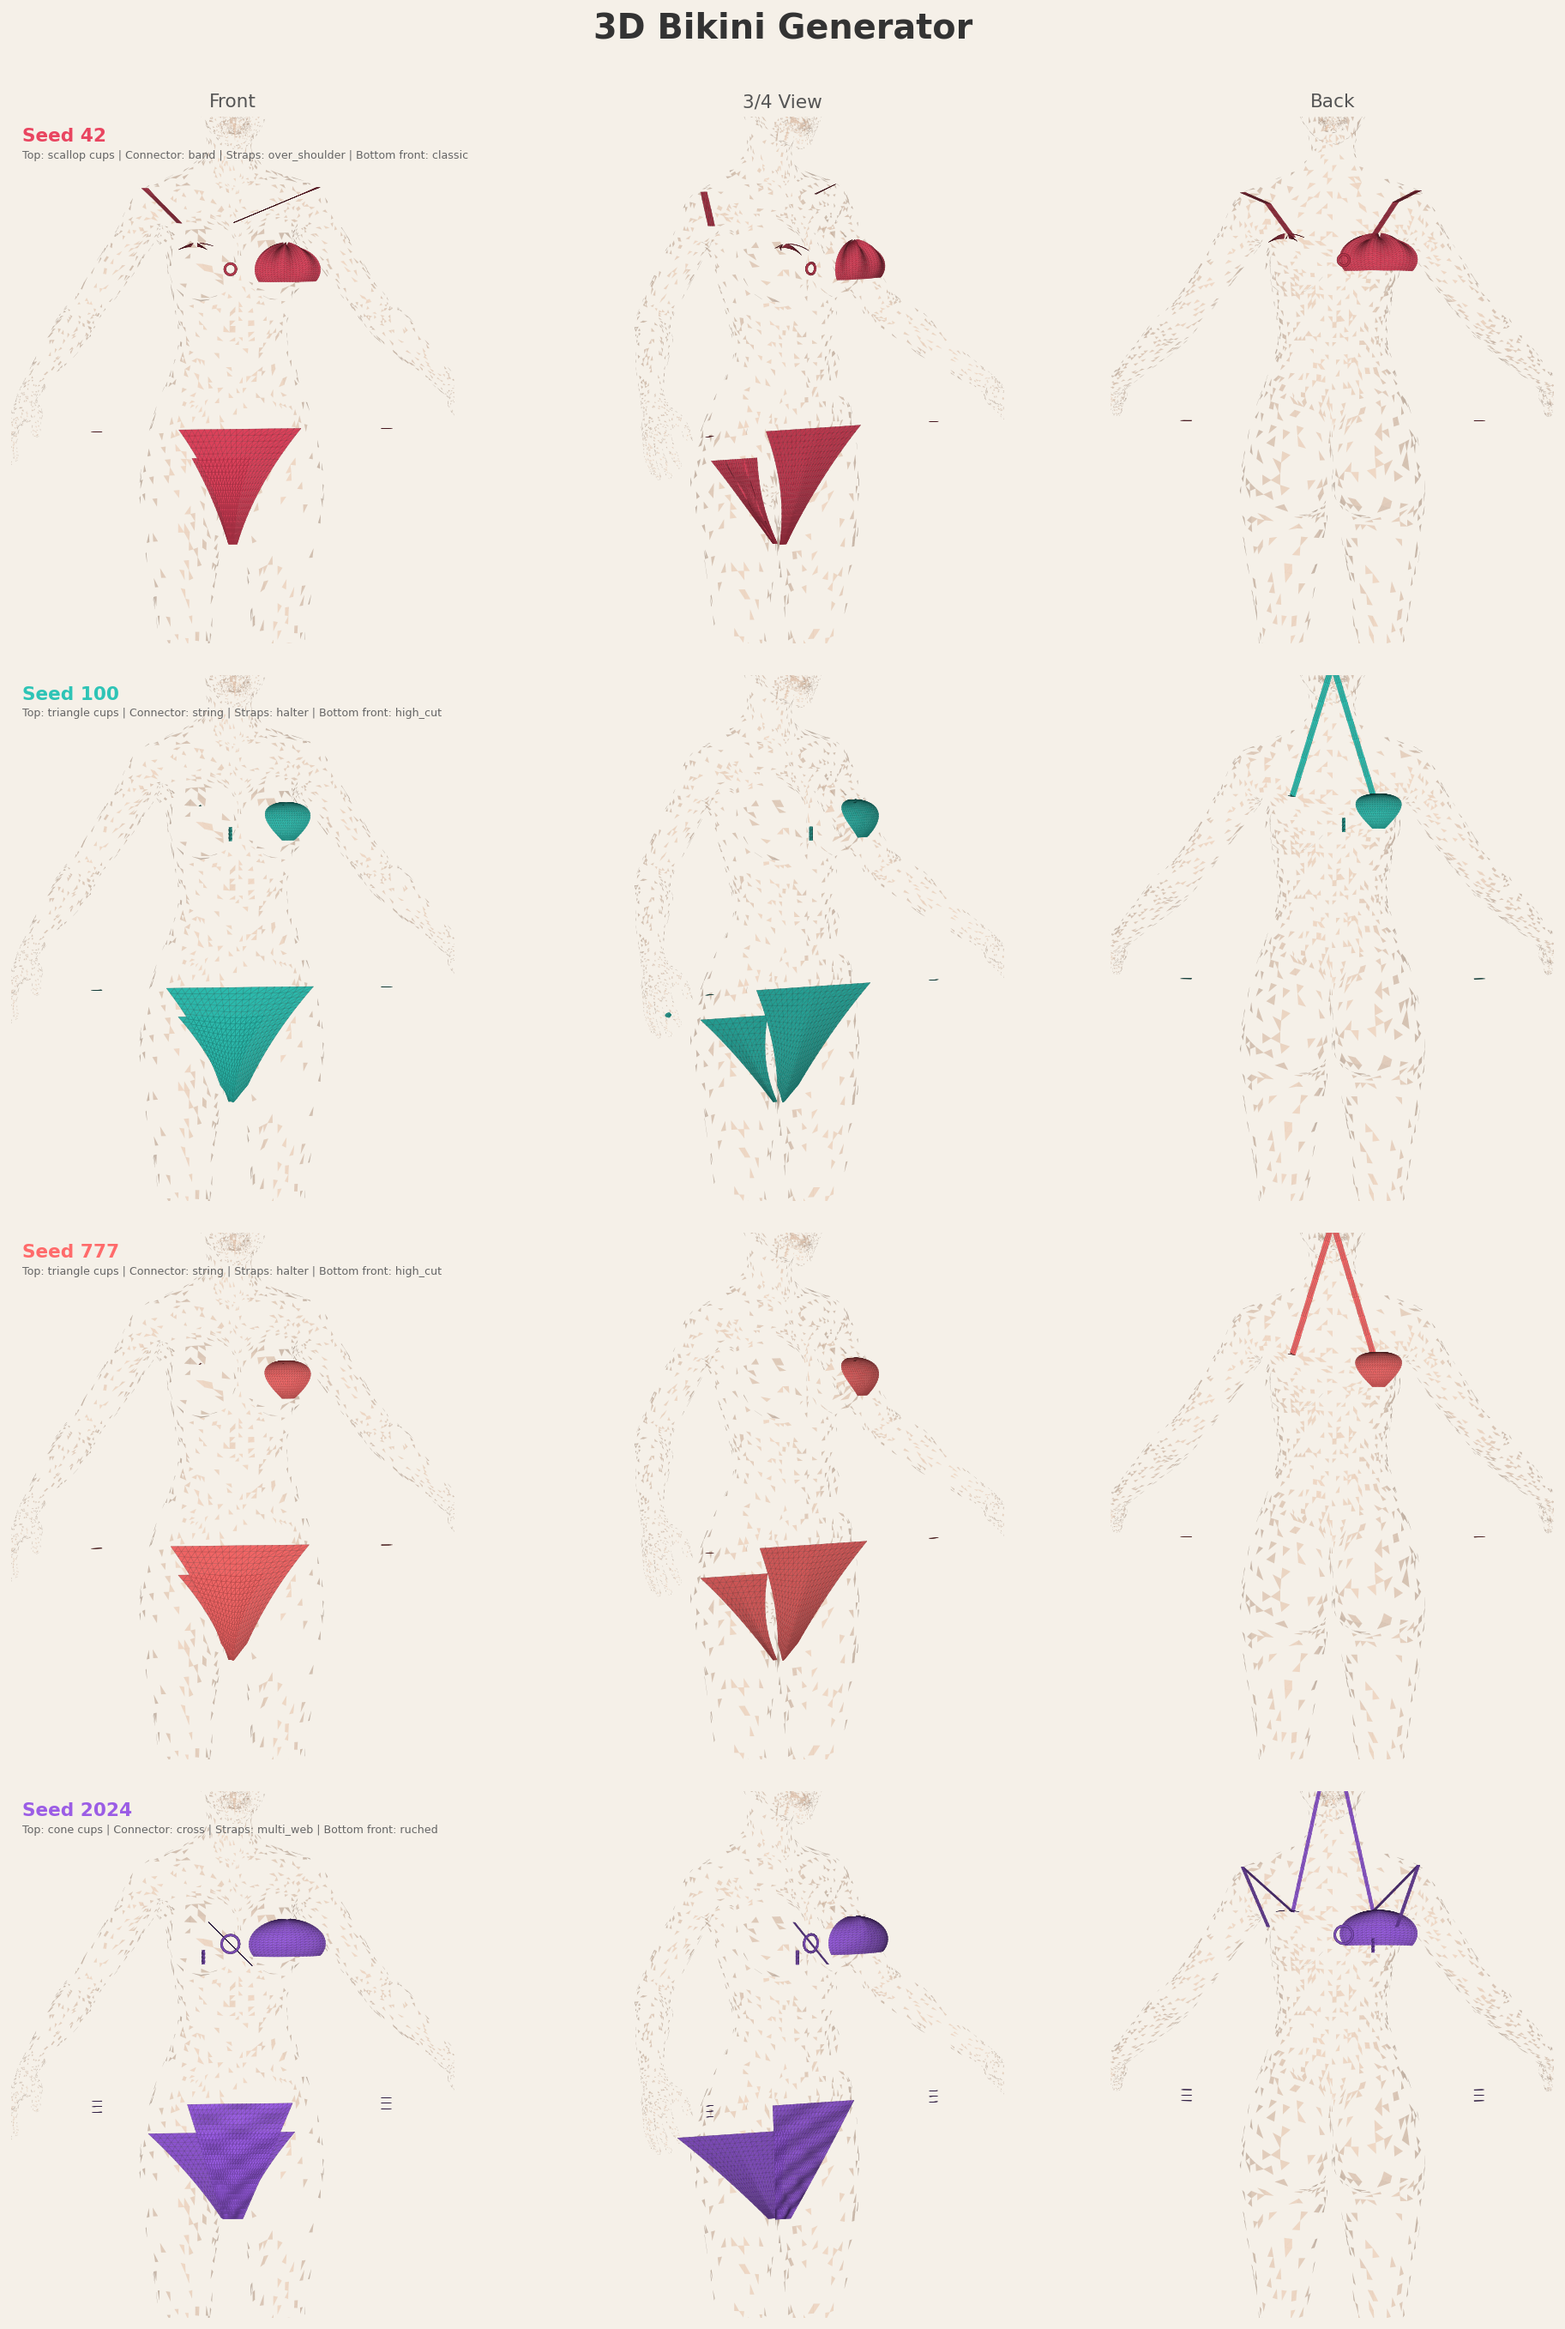
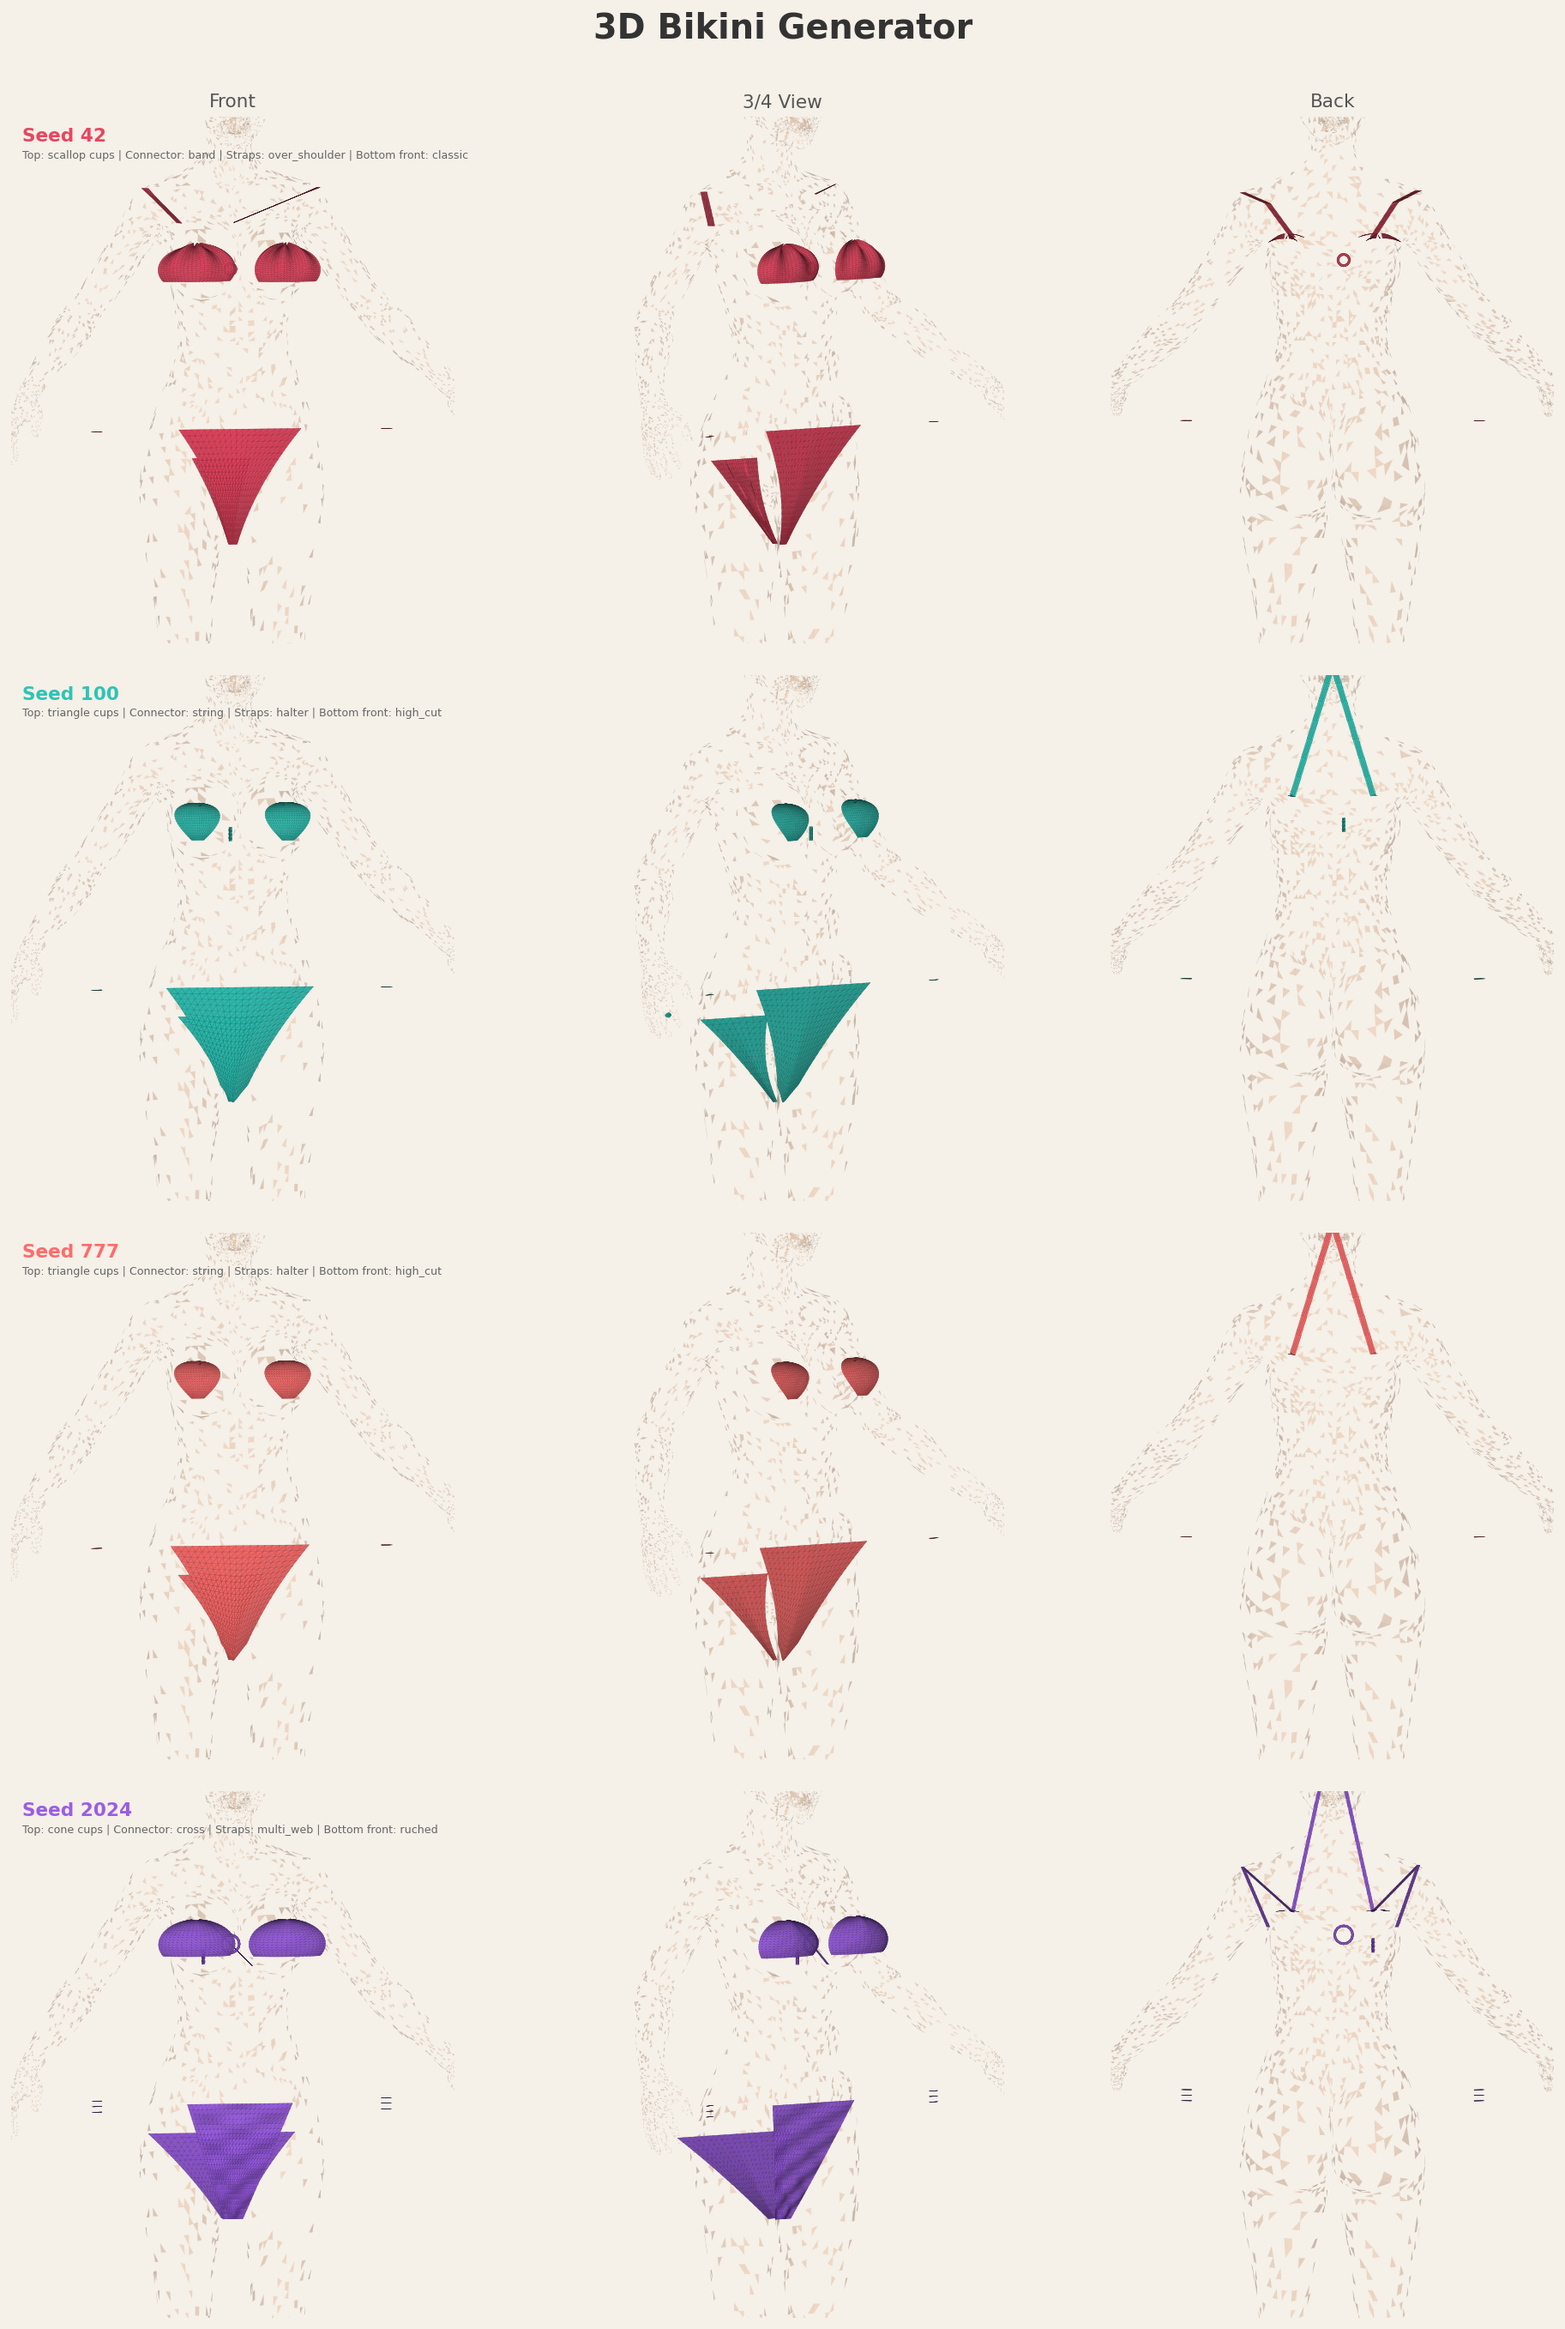
fix: correct left cup face winding so both cups render correctly
Left-side cups had inverted normals due to X-axis mirroring in the
parametric surface. Fixed by reversing face winding order for all
left-side cup styles (triangle, round, bandeau, scallop, cone).

https://claude.ai/code/session_01CGx4kTKQHwBokzENgDgNYu

diff --git a/bikini_generator/garment/top/cups.py b/bikini_generator/garment/top/cups.py
@@ -60,6 +60,11 @@ def triangle_cup(side: str = "left", coverage: float = 0.7, nu: int = 20, nv: in
         f"cup_{side}_triangle", func, (0.05, 0.95), (0.05, 0.95), nu, nv
     )
 
+    # Fix winding for left side (X mirrored surface flips normals)
+    if side == "left":
+        patch.faces = patch.faces[:, [0, 2, 1]]
+        patch.compute_normals()
+
     # Anchor: top center vertex (strap attachment)
     top_center = nu // 2
     apex_name = f"{side}_breast_apex"
@@ -85,6 +90,9 @@ def round_cup(side: str = "left", coverage: float = 0.8, nu: int = 24, nv: int =
     patch = GarmentPatch.from_parametric(
         f"cup_{side}_round", func, (0.0, 1.0), (0.0, 1.0), nu, nv
     )
+    if side == "left":
+        patch.faces = patch.faces[:, [0, 2, 1]]
+        patch.compute_normals()
     patch.anchor_vertex_ids = [0, nv - 1]
     patch.anchor_body_positions = [
         landmarks[f"{side}_breast_inner"],
@@ -108,6 +116,9 @@ def bandeau_cup(side: str = "left", coverage: float = 0.6, nu: int = 16, nv: int
     patch = GarmentPatch.from_parametric(
         f"cup_{side}_bandeau", func, (0.0, 1.0), (0.0, 1.0), nu, nv
     )
+    if side == "left":
+        patch.faces = patch.faces[:, [0, 2, 1]]
+        patch.compute_normals()
     # Bandeau: anchor along the band (bottom edge + sides)
     bottom_ids = list(range((nu - 1) * nv, nu * nv))
     side_ids = [0, nv - 1, (nu - 1) * nv, nu * nv - 1]
@@ -140,6 +151,9 @@ def scallop_cup(side: str = "left", coverage: float = 0.75, nu: int = 24, nv: in
     patch = GarmentPatch.from_parametric(
         f"cup_{side}_scallop", func, (0.05, 0.95), (0.05, 0.95), nu, nv
     )
+    if side == "left":
+        patch.faces = patch.faces[:, [0, 2, 1]]
+        patch.compute_normals()
     patch.anchor_vertex_ids = [0, nv - 1]
     patch.anchor_body_positions = [
         landmarks[f"{side}_breast_inner"],
@@ -166,6 +180,9 @@ def cone_cup(side: str = "left", coverage: float = 0.7, sharpness: float = 0.6,
     patch = GarmentPatch.from_parametric(
         f"cup_{side}_cone", func, (0.05, 0.95), (0.05, 0.95), nu, nv
     )
+    if side == "left":
+        patch.faces = patch.faces[:, [0, 2, 1]]
+        patch.compute_normals()
     patch.anchor_vertex_ids = [0, nv - 1]
     patch.anchor_body_positions = [
         landmarks[f"{side}_breast_inner"],
